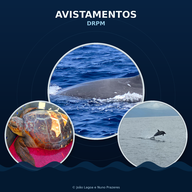
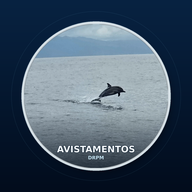
Add files via upload

diff --git a/index.html b/index.html
@@ -43,7 +43,7 @@
     padding:calc(10px + env(safe-area-inset-top)) 14px 10px;
   }
   .brand{display:flex;align-items:center;gap:10px;margin-bottom:10px;}
-  .brand-logo{width:34px;height:34px;border-radius:8px;flex-shrink:0;object-fit:cover;}
+  .brand-logo{width:2cm;height:2cm;border-radius:10px;flex-shrink:0;object-fit:cover;}
   .brand h1{flex:1;}
   .brand h1{font-size:15px;letter-spacing:.14em;text-transform:uppercase;margin:0;font-weight:700;color:var(--foam);}
   .brand h1 span{color:var(--sun);}
@@ -75,6 +75,11 @@
 
   /* ---- Log list ---- */
   main{flex:1;padding:12px 14px 100px;overflow-y:auto;}
+  .app-footer{
+    text-align:center;font-size:11px;color:var(--foam-dim);opacity:.7;
+    margin:18px 0 6px;letter-spacing:.02em;
+  }
+
   .log-count{
     display:flex;justify-content:space-between;align-items:baseline;
     font-size:11px;letter-spacing:.08em;text-transform:uppercase;color:var(--foam-dim);
@@ -331,6 +336,7 @@
 
     <div class="log-count"><span>Registos desta saída</span><b id="count-badge">0</b></div>
     <div id="log-list"></div>
+    <div class="app-footer">© João Lagoa e Nuno Prazeres</div>
   </main>
 
   <div class="fab-wrap"><button id="fab">+ Criar Registo</button></div>
@@ -1041,6 +1047,13 @@
       catValue = btn.dataset.v;
       setSegmentedActive("categoria-segmented", catValue);
       showCategoryBlock(catValue);
+      if(["Cetaceos","Lixo","Tartaruga"].includes(catValue)){
+        const transectoEl = document.getElementById("f-transecto");
+        if(!transectoEl.value){
+          const it = findLastITRecord();
+          if(it && it.transecto) transectoEl.value = it.transecto;
+        }
+      }
     });
   });
 

diff --git a/sw.js b/sw.js
@@ -1,4 +1,4 @@
-const CACHE = "avistamentos-v2";
+const CACHE = "avistamentos-v3";
 const ASSETS = ["./", "./index.html", "./manifest.json", "./icon-192.png", "./icon-512.png", "./logo-header.png"];
 
 self.addEventListener("install", (e) => {
